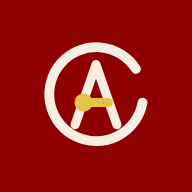
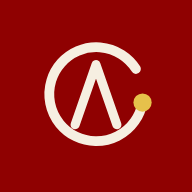
qc

Changed region(s): [[0.375, 0.4688, 0.5938, 0.5938], [0.6875, 0.4688, 0.8125, 0.5938]]

diff --git a/grupal.html b/grupal.html
@@ -20,7 +20,7 @@
 <meta name="apple-mobile-web-app-capable" content="yes">
 <meta name="apple-mobile-web-app-status-bar-style" content="black-translucent">
 <meta name="apple-mobile-web-app-title" content="Grup-Al">
-<!-- grupal.html · v2026-08-30a TAVAN/GAME -->
+<!-- grupal.html · v2026-08-30b TAVAN/GAME -->
 <style>
 :root{--bg:#16130f;--panel:#221c15;--panel2:#1c1712;--accent:#c98a3c;--gold:#e6c14b;--green:#3c7a5a;--ink:#f3ede4;--muted:#a8998a;--line:#3a2f26;--warn:#d9663f;--btnink:#16130f}
 body.th-day{--bg:#e7d9c3;--panel:#f6efe1;--panel2:#efe5d2;--accent:#a5661f;--gold:#8a6d15;--green:#2e6a4c;--ink:#291f15;--muted:#7d6b56;--line:#d3c2a6;--warn:#b34a26;--btnink:#fff}
@@ -139,7 +139,7 @@ details.how[open] summary,details.kvkk[open] summary{color:var(--ink)}
     <path id="logoArc" d="M 80.6 29.3 A 36 36 0 1 0 85.65 55.01" fill="none" style="stroke:var(--accent)" stroke-width="7" stroke-linecap="round"/>
     <path d="M 34 72 L 50 26 L 66 72" fill="none" style="stroke:var(--accent)" stroke-width="6" stroke-linecap="round" stroke-linejoin="round"/>
     <line id="logoBar" x1="59.5" y1="55" x2="59.5" y2="55" style="stroke:var(--gold);display:none" stroke-width="6" stroke-linecap="round"/>
-    <circle id="logoDot" cx="80.6" cy="29.3" r="6.5" style="fill:var(--gold)"/>
+    <circle id="logoDot" cx="85.65" cy="55.01" r="6.5" style="fill:var(--gold)"/>
   </svg>
   <div class="brand">GRUP-AL</div>
   <div class="tchips" id="themeChips"></div>
@@ -244,7 +244,7 @@ details.how[open] summary,details.kvkk[open] summary{color:var(--ink)}
 const API='https://efjvfggwnhqkunjvoyjb.supabase.co/functions/v1/grupal-proxy';
 let SLUG=new URLSearchParams(location.search).get('k')||'';
 const REF=new URLSearchParams(location.search).get('ref')||'';
-const VERSION='v2026-08-30a';
+const VERSION='v2026-08-30b';
 let PAYURL=null, STATE=null, DEPLINK=null, MINE=null;
 let ENDAT=null, TICKT=null;
 function tick(){ const el=$('deadline'); if(!el||!ENDAT) return; const left=ENDAT-Date.now();
@@ -563,8 +563,10 @@ function renderLogo(s){
   // çizgisini ALTINLA yazar; kampanya tamamlanınca çizginin SOL UCUNDA durur = statik marka (I).
   const dot=document.getElementById('logoDot'), bar=document.getElementById('logoBar');
   if(!dot||!bar) return;
+  if(!s){ // marka duruşu (portal/boot): çekirdek G'nin ucunda, çizgi yok
+    bar.style.display='none'; dot.setAttribute('cx','85.65'); dot.setAttribute('cy','55.01'); return; }
   let p=0, done=false;
-  if(s){
+  {
     const locked=s.locked||0, lad=s.ladder||[];
     const goal=parseInt(s.cap)||((lad.length&&lad[lad.length-1].at)||0);
     done=(typeof CLOSED!=='undefined'&&CLOSED&&(s.status==='fulfilled'))||((typeof redWindow==='function')&&redWindow());
